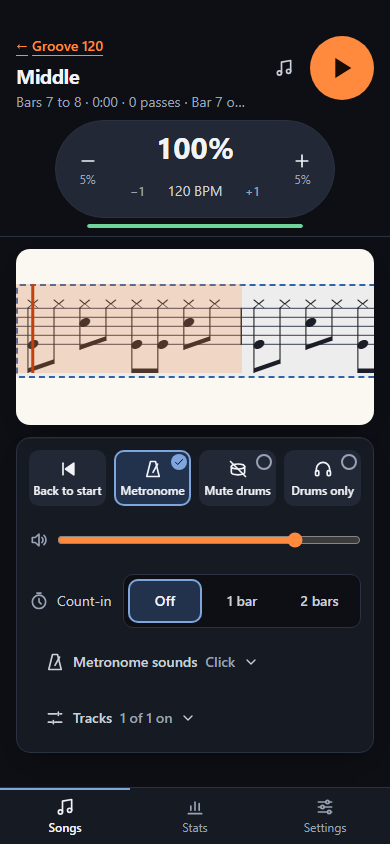
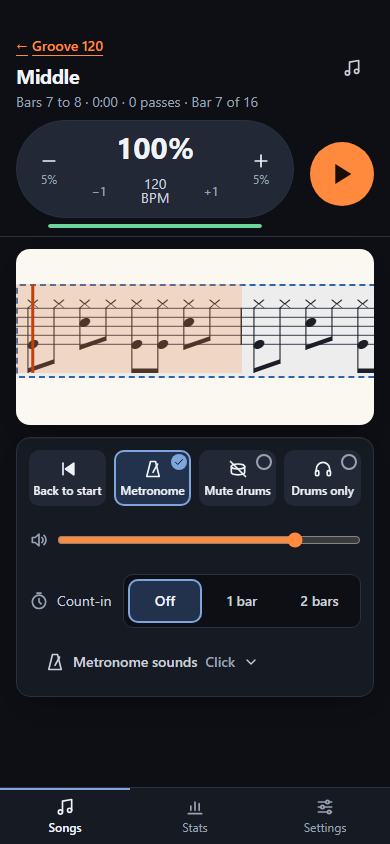
unit 16: fix the three e2e failures from CI
The practice-screen spec finds the view toggle by either of its names. CI's e2e job seeds the database, which stats.spec.ts reads. On a phone on its side the practice band's detail line is read out only, so the band is one row (83 px) again.

diff --git a/tests/e2e/practice-screen.spec.ts b/tests/e2e/practice-screen.spec.ts
@@ -9,7 +9,9 @@ import { backTo, loopsOf, openPractice, practiceSpeed } from './practicePage';
 // song", a new loop is saved from the whole song without leaving the screen, and the speed is
 // set by 1 BPM, a typed BPM or a typed percent.
 
-const wholeSong = (page: Page) => page.getByRole('button', { name: 'Show whole song' });
+// One button, named for what a press shows next.
+const wholeSong = (page: Page) =>
+  page.getByRole('button', { name: /^Show (whole song|the loop)$/ });
 const saveSheet = (page: Page) => page.getByTestId('save-as-loop');
 
 /** The drawn score's area: a few bars against the whole song, at any layout. */
@@ -51,7 +53,7 @@ test('draws the loop alone; from the whole song a tap picks bars and Save as loo
   await expect(status(page)).toContainText('Bar 7 of 16');
 
   await wholeSong(page).click();
-  await expect(wholeSong(page)).toHaveAttribute('aria-pressed', 'true');
+  await expect(wholeSong(page)).toHaveAccessibleName('Show the loop');
   await expect.poll(() => drawnArea(page)).toBeGreaterThan(loopArea * 2);
   await expect(saveSheet(page)).toBeVisible();
   await page.screenshot({
@@ -73,7 +75,7 @@ test('draws the loop alone; from the whole song a tap picks bars and Save as loo
   await expect(page.getByRole('heading', { level: 1, name: 'Early' })).toBeVisible();
   await expect(page).toHaveURL(/\/songs\/[^/]+\/loops\/[^/]+$/);
   await expect(saveSheet(page)).toHaveCount(0);
-  await expect(wholeSong(page)).toHaveAttribute('aria-pressed', 'false');
+  await expect(wholeSong(page)).toHaveAccessibleName('Show whole song');
   expect((await loopsOf(user)).map((loop) => loop.name).sort()).toEqual(['Early', 'Middle']);
   await expect.poll(() => drawnArea(page)).toBeLessThan(loopArea * 2);
   await expect(status(page)).toContainText('Bar 3 of 16');

diff --git a/src/features/song/LoopPracticePage.tsx b/src/features/song/LoopPracticePage.tsx
@@ -321,7 +321,9 @@ function PracticePlayer({
           <h1 className="truncate text-xl font-bold tracking-tight lg:text-2xl" title={loop.name}>
             {loop.name}
           </h1>
-          <p className="truncate text-sm text-ink-muted tabular-nums">
+          {/* In a short window (a phone on its side) the line is only read out: with it the
+              band was 105 px of a 390 px window, and the score needs the height more. */}
+          <p className="truncate text-sm text-ink-muted tabular-nums short:sr-only">
             <span data-testid="practice-progress">
               {barsLabel(loop.start_bar, loop.end_bar)} · {clockLabel(progress?.playedSeconds ?? 0)}{' '}
               · {repeatsLabel(progress?.repeats ?? 0)}
